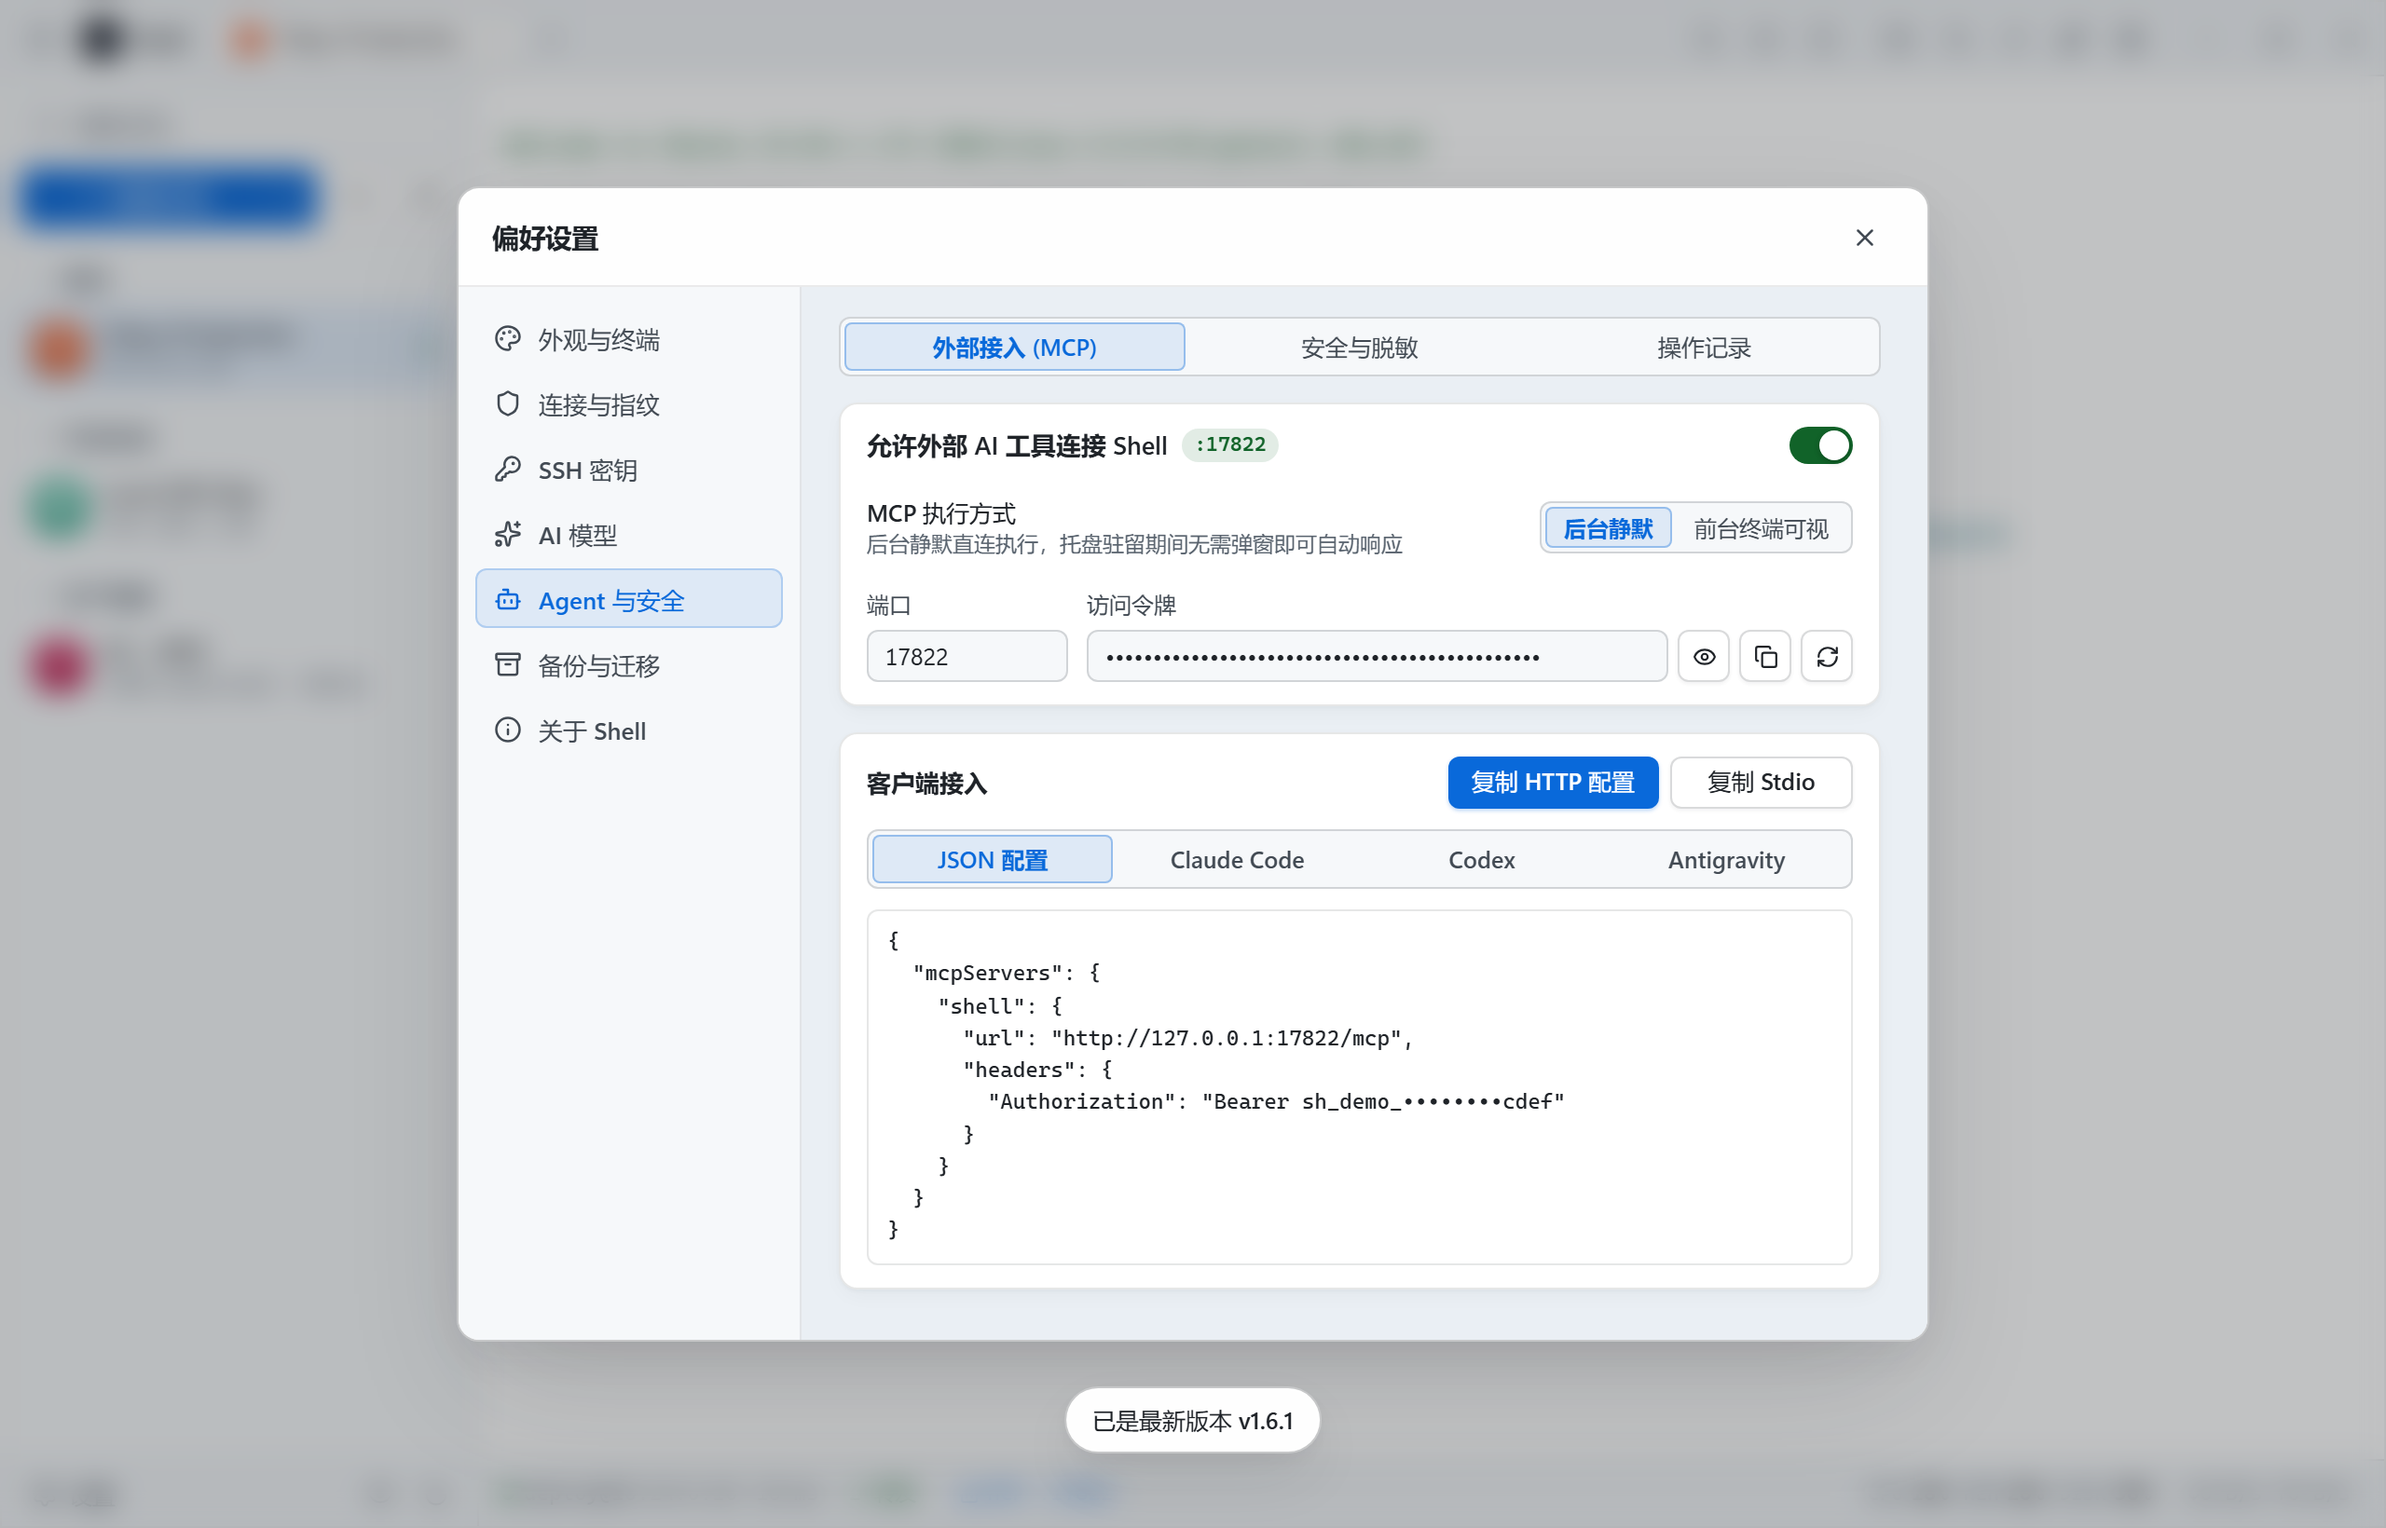
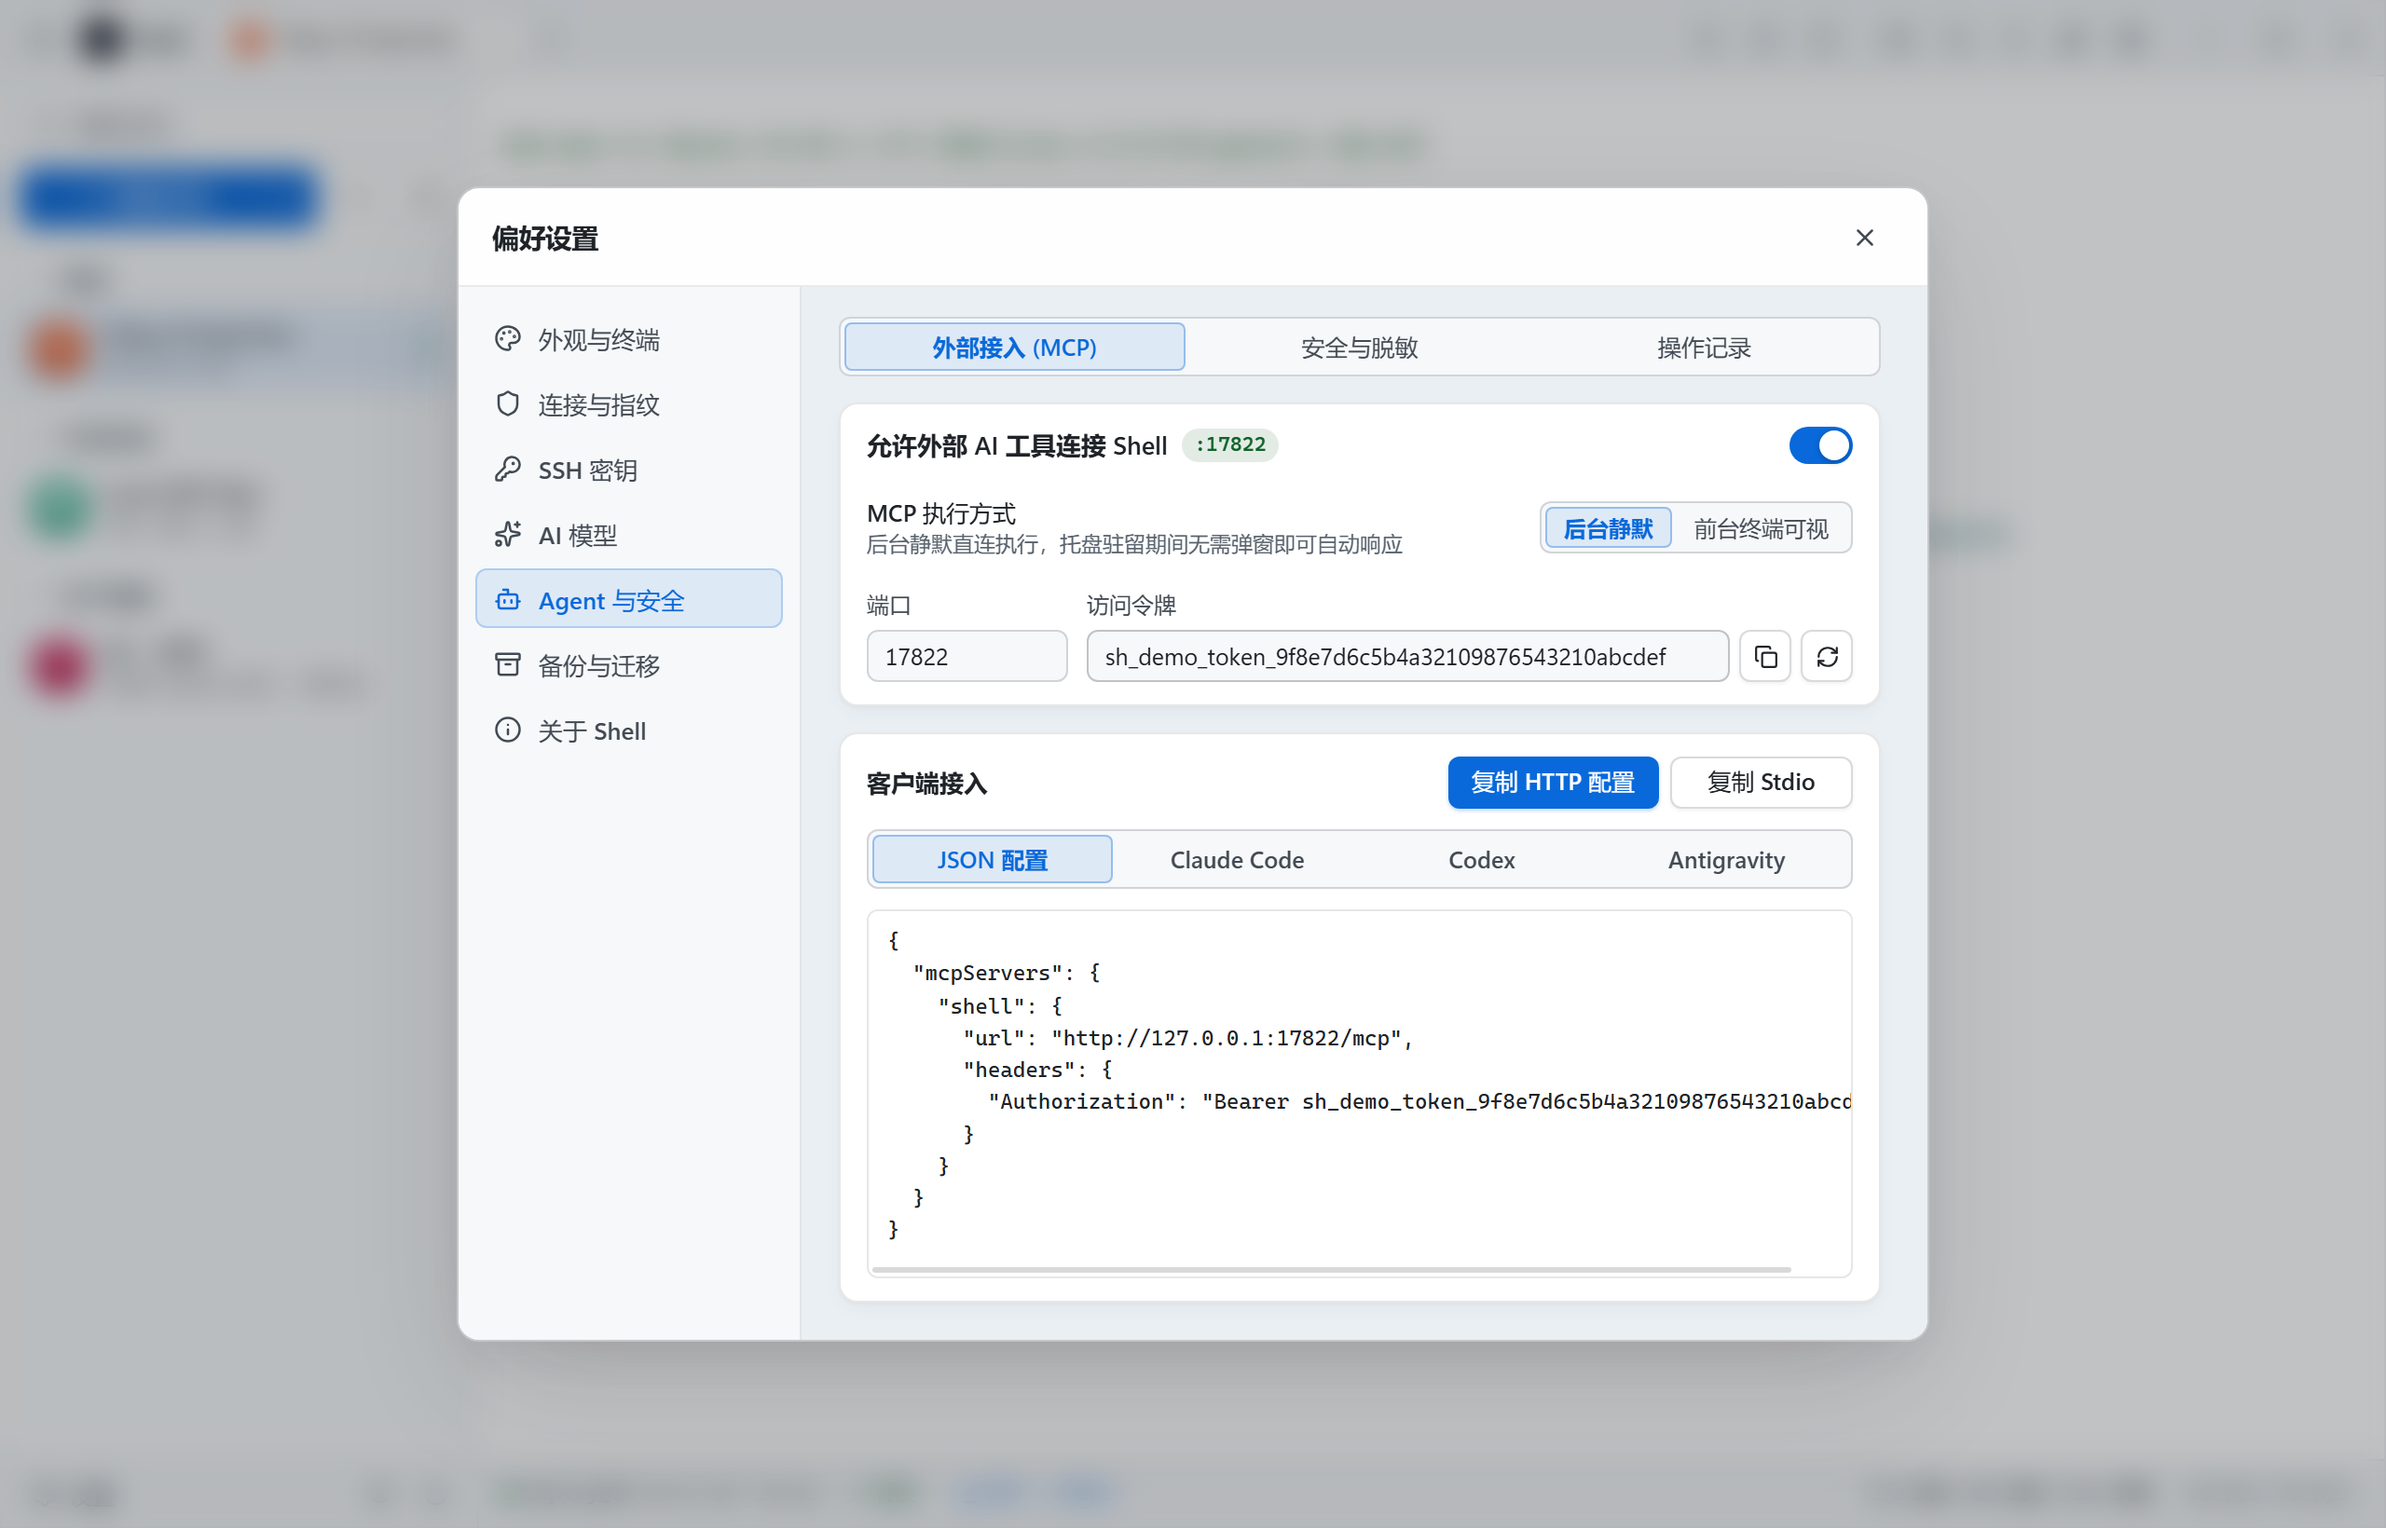
chore(release): 发布 v1.6.2

diff --git a/README.md b/README.md
@@ -101,14 +101,13 @@
 Shell 提供两种互补的 AI 协作方式，并统一纳入本地权限策略、脱敏引擎与审计日志管控：
 
 ### 1. 内置 AI 助手（自定义 API / 本地 CLI）
-在 **偏好设置 → AI 模型** 中可自由切换两种调用模式：
+在 **偏好设置 → AI 模型** 中可自由切换两种调用模式（各本地 CLI 与 API 服务商独立记忆所选模型，互不串值）：
 - **API 接口**：内置 **Claude、ChatGPT、Gemini、DeepSeek** 热门四家最新旗舰模型预设（`claude-sonnet-5-5` / `gpt-6.2-sol` / `gemini-4-neon` / `deepseek-flash`），提供可编辑模型下拉框与一键实时刷新可用模型列表（兼容 Anthropic、Gemini 原生与 OpenAI 格式接口及本地 Ollama），自动适配 Windows 系统代理。
-- **本地 CLI**：自动检测并无弹窗调用本机已安装的 **Claude Code (`claude`)**、**Codex CLI (`codex`)**、**Antigravity CLI (`agy`)** 或自定义命令行工具，直接复用现有 CLI 登录态。
+- **本地 CLI**：自动检测并无弹窗无痕调用本机已安装的 **Claude Code (`claude`)**、**Codex CLI (`codex`)**、**Antigravity CLI (`agy`)** 或自定义命令行工具，直接复用现有 CLI 登录态且不向外部工具写入会话历史。
 
-在终端侧边栏支持三种模式：
-- **写命令**：自然语言生成 Shell 命令并标注风险等级，支持一键插入或执行。
-- **查报错**：选中终端日志进行原因分析与修复建议（发送前自动脱敏）。
-- **自动运维**：自主调用诊断与文件工具完成巡检与排障，高危操作弹窗确认。
+终端右侧 AI 助手采用直连式轻量对话流：
+- **发送即排查执行**：输入需求按 `Enter` 即自主调用只读探测与运维工具完成排障，实时以紧凑可折叠步骤行展示执行过程与轻量 Markdown 代码块，并支持多轮对话上下文与终端选区一键分析。
+- **SSH 与本机终端双目标直连**：自动感知当前活动的 SSH 会话或 Windows / WSL 本机终端，所有执行统一经过命令权限策略、高危操作弹窗确认、敏感信息自动脱敏与操作审计。
 
 ### 2. 外部 AI Agent 接入（MCP Server）
 Shell 内置符合 MCP `2025-03-26` 规范的高性能本地桥接服务（跳板机连接池复用、认证后并行预热持久 SSH 命令通道、内存级配置与 `known_hosts` 缓存、Windows 命名管道本机自动发现、同资料并发连接共享握手与异步审计日志），默认监听 `127.0.0.1:17822`，支持 **Streamable HTTP**（`/mcp`）与 **stdio**（`Shell.exe --mcp`）两种传输方式，并提供 **JSON 配置 / Claude Code / Codex / Antigravity** 一键复制命令。支持切换 **后台静默（托盘极速执行）** 与 **前台终端可视（认证就绪立即放行、多行命令规整回显、结束后自动还原真实 Shell 提示符，支持取消）** 两种执行方式；AI 助手、本地 CLI 与外部 MCP 统一默认自动放行常规运维命令，仅真正毁灭性或高敏感系统操作触发确认弹窗，同时完整保留显式禁止规则与敏感路径保护。

diff --git a/CHANGELOG.md b/CHANGELOG.md
@@ -2,6 +2,14 @@
 
 本项目的版本变更遵循 [语义化版本 2.0.0](https://semver.org/lang/zh-CN/) 规范。
 
+## [1.6.2] - 2026-11-28
+
+### 直连式轻量 AI 助手、CLI 无痕调用与全站细节打磨
+- **直连式轻量 AI 助手、本机终端执行与多轮上下文**：重构终端右侧 AI 助手抽屉，彻底移除繁琐的三标签页与手动「插入 / 执行」步骤，升级为发送即直接执行的极简对话流（支持目标会话状态微条、按 SSH / 本机终端自动切换的快捷芯片、合并可折叠步骤行、零依赖轻量 Markdown 代码块一键复制/运行、`Enter` 直接发送与输入法防误触，以及多轮对话上下文传递）；AI 助手现同时原生支持 SSH 远端主机与 Windows 本机终端（PowerShell / CMD / Git Bash / WSL 无黑窗安全执行与最近输出读取），并统一接入安全策略确认、敏感信息自动脱敏与操作审计。
+- **本地 AI CLI 全面无痕调用（零历史残留）**：为 `Codex CLI` 自动注入 `--ephemeral`、`-c history.persistence="none"` 与 `-c notify=[]`（杜绝向 Codex App 写入会话历史或触发桌面通知钩子），为 `Claude Code` 自动启用 `--no-session-persistence`（兼容旧版本自动回退）与 `CLAUDE_CODE_SKIP_PROMPT_HISTORY=1`，`Antigravity CLI` 保持无会话持久化调用，确保在 Shell 中调用本机 CLI 零历史污染。
+- **本地 CLI 与 API 服务商模型独立记忆不串值**：在「偏好设置 → AI 模型」中为各个本地 CLI 工具（`Claude Code`、`Codex CLI`、`Antigravity CLI`、`自定义 CLI`）与 API 服务商建立独立持久化模型记忆；切换工具或服务商时自动还原各自所选模型（未单独指定则自动回到留空默认），彻底杜绝跨工具残留旧模型名称；同步补齐 API 模型框右侧留白及 API 密钥 / 备份加密口令输入框的显隐切换体验。
+- **MCP 访问令牌明文展示与全站弹窗对齐精修**：MCP 访问令牌输入框及下方 JSON / Claude Code / Antigravity 接入预览统一直接显示完整明文令牌，顶部 MCP 开关统一为全站主题强调色，优化 `.code-block` 断行策略防止 URL 端口号被截断，修复操作记录耗时展开拉偏时间戳；重构「清理本机残留并退出」弹窗至 `468 px` 实现清单圆点与下方单行复选框像素级垂直水平齐平；补齐「删除主机」弹窗关闭按钮与 `Escape` 关闭、校准高危审批弹窗中性「拒绝」与深绯红实底「允许一次」按钮层次，并微调主机弹窗、导入弹窗与快捷片段抽屉的多处细节对齐。
+
 ## [1.6.1] - 2026-11-28
 
 ### 界面入口极致精简、默认开机自启与全链路 AI 修复
